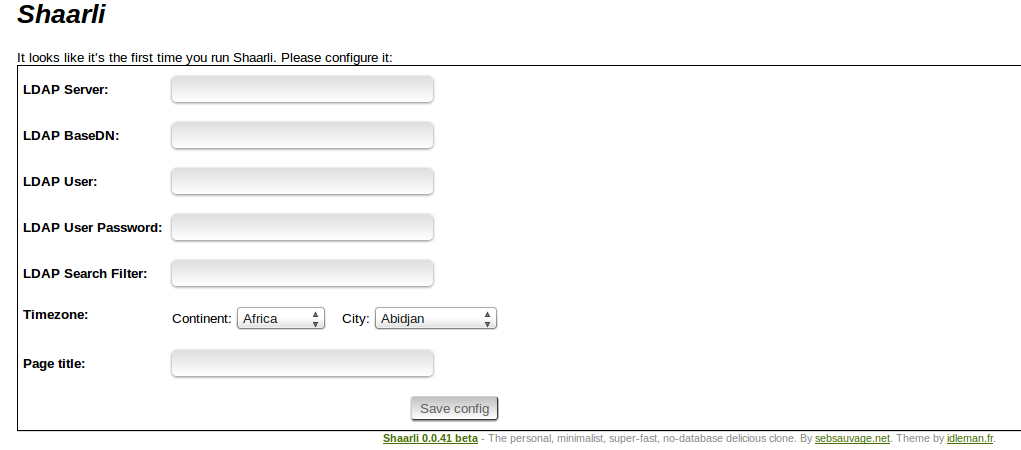
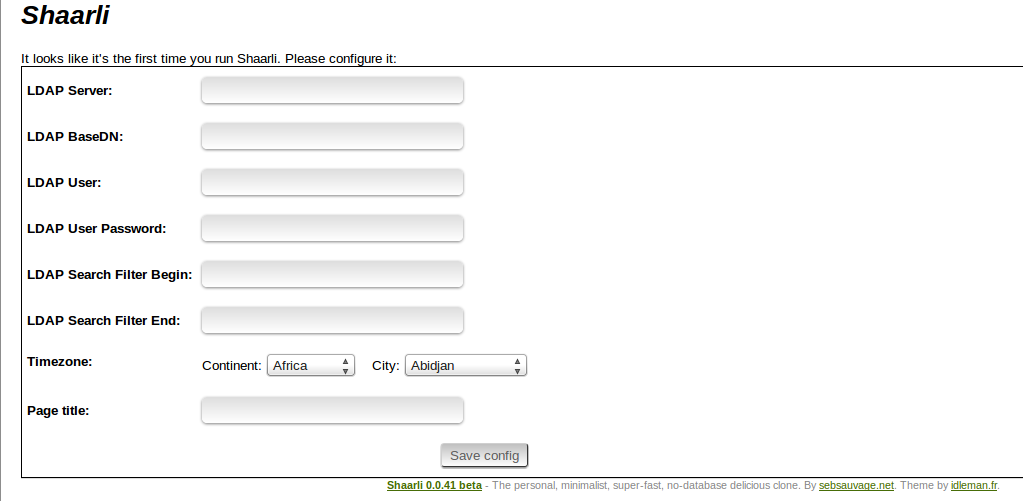
readme update

diff --git a/README.md b/README.md
@@ -13,10 +13,11 @@ everything is same except install parameters :
 * **LDAP BaseDN**: your BaseDN for LDAP Bind
 * **LDAP User**: DN of a user with right to read	
 * **LDAP User Password**: Password of the user
-* **LDAP Search Filter**: A filter for search (still in beta)
+* **LDAP Search Filter Begin**: Beginning of the Search Filter
+* **LDAP Search Filter End** : End of the Search Filter
 
-For the moment, the script add entered login at filter's end 
-(ex :cn=$user_login)
+The search filter is in 2 parts because $login entered by user will be insert
+between two parts.
 
 ------------------------------------------------------------------------------
 Shaarli is distributed under the zlib/libpng License:
